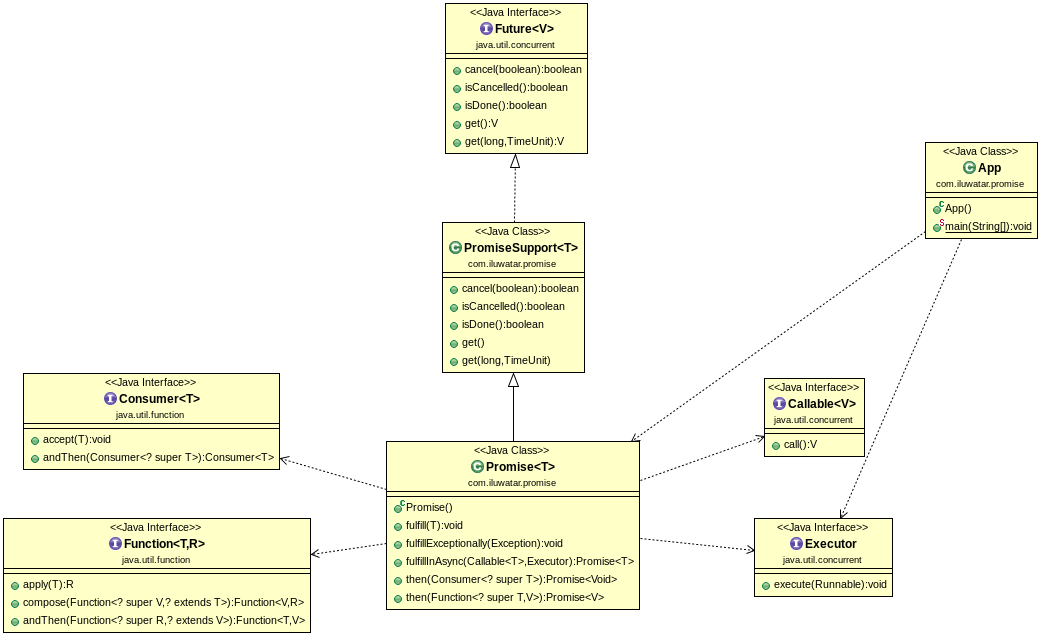
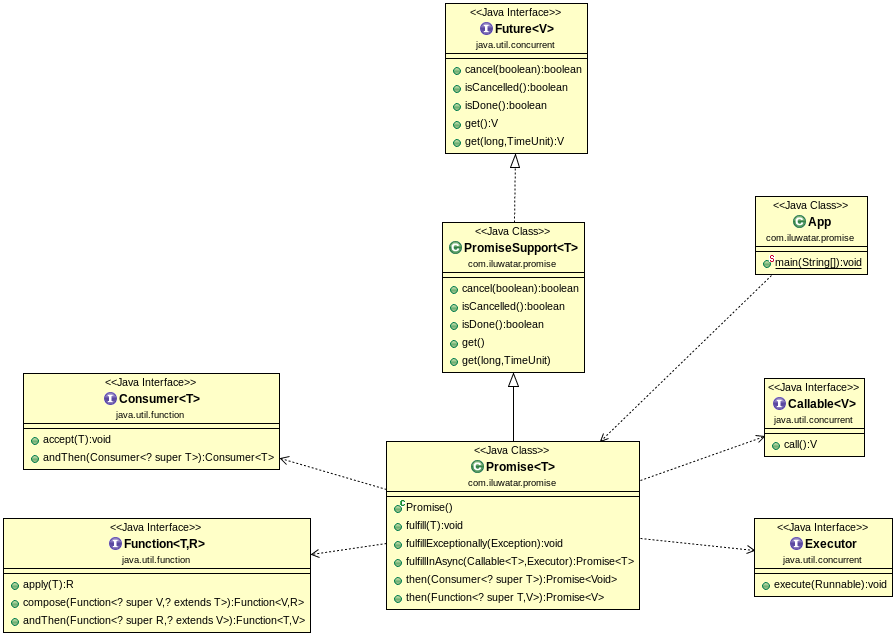
Work on #403, made example readable and moved methods into utility

diff --git a/promise/src/main/java/com/iluwatar/promise/App.java b/promise/src/main/java/com/iluwatar/promise/App.java
@@ -21,19 +21,10 @@
  * THE SOFTWARE.
  */
 package com.iluwatar.promise;
-
-import java.io.BufferedReader;
-import java.io.File;
-import java.io.FileReader;
-import java.io.FileWriter;
-import java.io.IOException;
-import java.io.InputStreamReader;
-import java.io.Reader;
-import java.net.URL;
 import java.util.Map;
 import java.util.concurrent.CompletableFuture;
+import java.util.concurrent.CountDownLatch;
 import java.util.concurrent.ExecutionException;
-import java.util.concurrent.Executor;
 import java.util.concurrent.ExecutorService;
 import java.util.concurrent.Executors;
 
@@ -59,7 +50,12 @@ import java.util.concurrent.Executors;
  */
 public class App {
 
+  private static final String URL = "https://raw.githubusercontent.com/iluwatar/java-design-patterns/Promise/promise/README.md";
+  private ExecutorService executor;
+  private CountDownLatch canStop = new CountDownLatch(2);
+  
   private App() {
+    executor = Executors.newFixedThreadPool(2);
   }
   
   /**
@@ -69,67 +65,80 @@ public class App {
    * @throws ExecutionException if an execution error occurs.
    */
   public static void main(String[] args) throws InterruptedException, ExecutionException {
-    ExecutorService executor = Executors.newSingleThreadExecutor();
+    App app = new App();
     try {
-      promiseUsage(executor);
+      app.run();
     } finally {
-      executor.shutdownNow();
+      app.stop();
     }
   }
 
-  private static void promiseUsage(Executor executor)
-      throws InterruptedException, ExecutionException {
-    String urlString = "https://raw.githubusercontent.com/iluwatar/java-design-patterns/Promise/promise/README.md";
-    Promise<Integer> lineCountPromise = new Promise<String>().fulfillInAsync(() -> {
-      return downloadFile(urlString);
-    }, executor).then(fileLocation -> {
-      return countLines(fileLocation);
-    });
+  private void run() throws InterruptedException, ExecutionException {
+    promiseUsage();
+  }
+
+  private void promiseUsage() {
     
-    Promise<Map<Character, Integer>> charFrequencyPromise = new Promise<String>().fulfillInAsync(() -> {
-      return String.valueOf(downloadFile(urlString));
-    }, executor).then(fileLocation -> {
-      return characterFrequency(fileLocation);
-    });
+    countLines()
+      .then(
+          count -> {
+            System.out.println("Line count is: " + count);
+            taskCompleted();
+          }
+      );
     
-    lineCountPromise.get();
-    System.out.println("Line count is: " + lineCountPromise.get());
-    charFrequencyPromise.get();
-    System.out.println("Char frequency is: " + charFrequencyPromise.get());
+    lowestCharFrequency()
+      .then(
+          charFrequency -> {
+            System.out.println("Char with lowest frequency is: " + charFrequency);
+            taskCompleted();
+          }
+      );
   }
 
-  private static Map<Character, Integer> characterFrequency(String fileLocation) {
-    // TODO Auto-generated method stub
-    return null;
+  private Promise<Character> lowestCharFrequency() {
+    return characterFrequency()
+        .then(
+            charFrequency -> { 
+              return Utility.lowestFrequencyChar(charFrequency).orElse(null); 
+            }
+        );
   }
 
-  private static Integer countLines(String fileLocation) {
-    int lineCount = 0;
-    try (Reader reader = new FileReader(fileLocation); 
-        BufferedReader bufferedReader = new BufferedReader(reader);) {
-      for (String line; (line = bufferedReader.readLine()) != null; ) {
-        lineCount++;
-      }
-    } catch (IOException ex) {
-      ex.printStackTrace();
-    }
-    return lineCount;
+  private Promise<Map<Character, Integer>> characterFrequency() {
+    return download(URL)
+      .then(
+          fileLocation -> {
+            return Utility.characterFrequency(fileLocation);
+          }
+      );
   }
 
-  private static String downloadFile(String urlString) throws InterruptedException, IOException {
-    URL url = new URL(urlString);
-    File file = File.createTempFile("promise_pattern", null);
-    try (Reader reader = new InputStreamReader(url.openStream()); 
-        BufferedReader bufferedReader = new BufferedReader(reader);
-        FileWriter writer = new FileWriter(file)) {
-      for (String line; (line = bufferedReader.readLine()) != null; ) {
-        writer.write(line);
-        writer.write("\n");
-      }
-    } catch (IOException ex) {
-      ex.printStackTrace();
-    }
-    System.out.println("File downloaded at: " + file.getAbsolutePath());
-    return file.getAbsolutePath();
+  private Promise<Integer> countLines() {
+    return download(URL)
+        .then(
+            fileLocation -> {
+              return Utility.countLines(fileLocation);
+            }
+        );
+  }
+
+  private Promise<String> download(String urlString) {
+    Promise<String> downloadPromise = new Promise<String>()
+        .fulfillInAsync(
+            () -> {
+              return Utility.downloadFile(urlString);
+            }, executor);
+    
+    return downloadPromise;
+  }
+
+  private void stop() throws InterruptedException {
+    canStop.await();
+    executor.shutdownNow();
+  }
+  
+  private void taskCompleted() {
+    canStop.countDown();
   }
 }

diff --git a/promise/src/main/java/com/iluwatar/promise/Utility.java b/promise/src/main/java/com/iluwatar/promise/Utility.java
@@ -1,0 +1,91 @@
+package com.iluwatar.promise;
+
+import java.io.BufferedReader;
+import java.io.File;
+import java.io.FileReader;
+import java.io.FileWriter;
+import java.io.IOException;
+import java.io.InputStreamReader;
+import java.io.Reader;
+import java.net.MalformedURLException;
+import java.net.URL;
+import java.util.HashMap;
+import java.util.Iterator;
+import java.util.Map;
+import java.util.Optional;
+import java.util.Map.Entry;
+
+public class Utility {
+
+  public static Map<Character, Integer> characterFrequency(String fileLocation) {
+    Map<Character, Integer> characterToFrequency = new HashMap<>();
+    try (Reader reader = new FileReader(fileLocation); 
+        BufferedReader bufferedReader = new BufferedReader(reader);) {
+      for (String line; (line = bufferedReader.readLine()) != null;) {
+        for (char c : line.toCharArray()) {
+          if (!characterToFrequency.containsKey(c)) {
+            characterToFrequency.put(c, 1);
+          } else {
+            characterToFrequency.put(c, characterToFrequency.get(c) + 1);
+          }
+        }
+      }
+    } catch (IOException ex) {
+      ex.printStackTrace();
+    }
+    return characterToFrequency;
+  }
+  
+  public static Optional<Character> lowestFrequencyChar(Map<Character, Integer> charFrequency) {
+    Optional<Character> lowestFrequencyChar = Optional.empty();
+    if (charFrequency.isEmpty()) {
+      return lowestFrequencyChar;
+    }
+    
+    Iterator<Entry<Character, Integer>> iterator = charFrequency.entrySet().iterator();
+    Entry<Character, Integer> entry = iterator.next();
+    int minFrequency = entry.getValue();
+    lowestFrequencyChar = Optional.of(entry.getKey());
+    
+    while (iterator.hasNext()) {
+      entry = iterator.next();
+      if (entry.getValue() < minFrequency) {
+        minFrequency = entry.getValue();
+        lowestFrequencyChar = Optional.of(entry.getKey());
+      }
+    }
+    
+    return lowestFrequencyChar;
+  }
+  
+  public static Integer countLines(String fileLocation) {
+    int lineCount = 0;
+    try (Reader reader = new FileReader(fileLocation); 
+        BufferedReader bufferedReader = new BufferedReader(reader);) {
+      while (bufferedReader.readLine() != null) {
+        lineCount++;
+      }
+    } catch (IOException ex) {
+      ex.printStackTrace();
+    }
+    return lineCount;
+  }
+
+  public static String downloadFile(String urlString) throws MalformedURLException, IOException {
+    System.out.println("Downloading contents from url: " + urlString);
+    URL url = new URL(urlString);
+    File file = File.createTempFile("promise_pattern", null);
+    try (Reader reader = new InputStreamReader(url.openStream()); 
+        BufferedReader bufferedReader = new BufferedReader(reader);
+        FileWriter writer = new FileWriter(file)) {
+      for (String line; (line = bufferedReader.readLine()) != null; ) {
+        writer.write(line);
+        writer.write("\n");
+      }
+      System.out.println("File downloaded at: " + file.getAbsolutePath());
+      return file.getAbsolutePath();
+    } catch (IOException ex) {
+      throw ex;
+    }
+  }
+}
